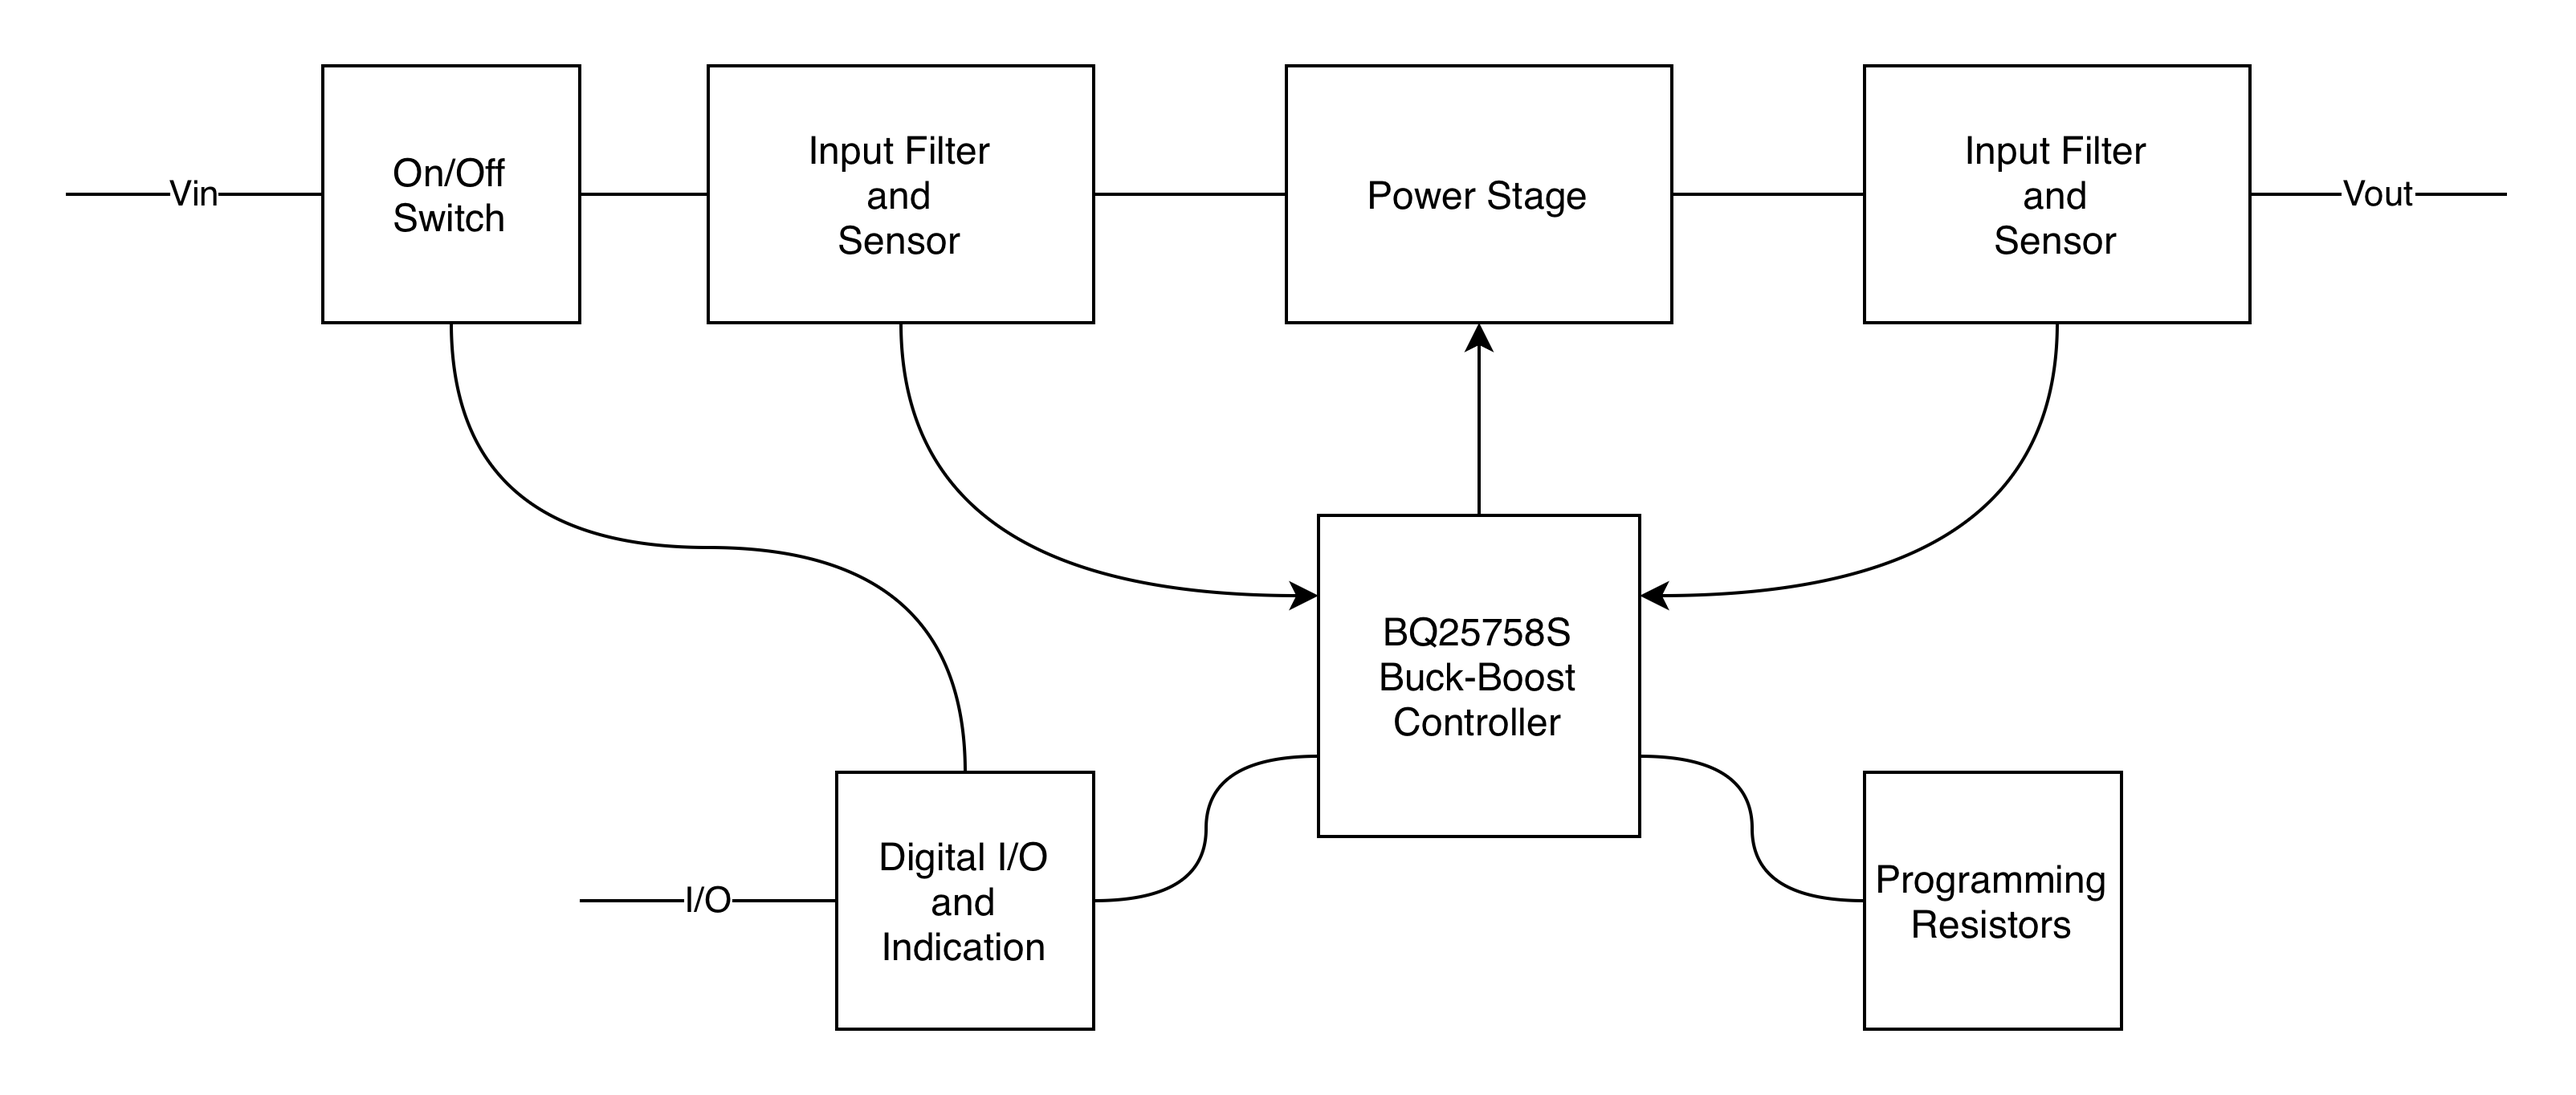
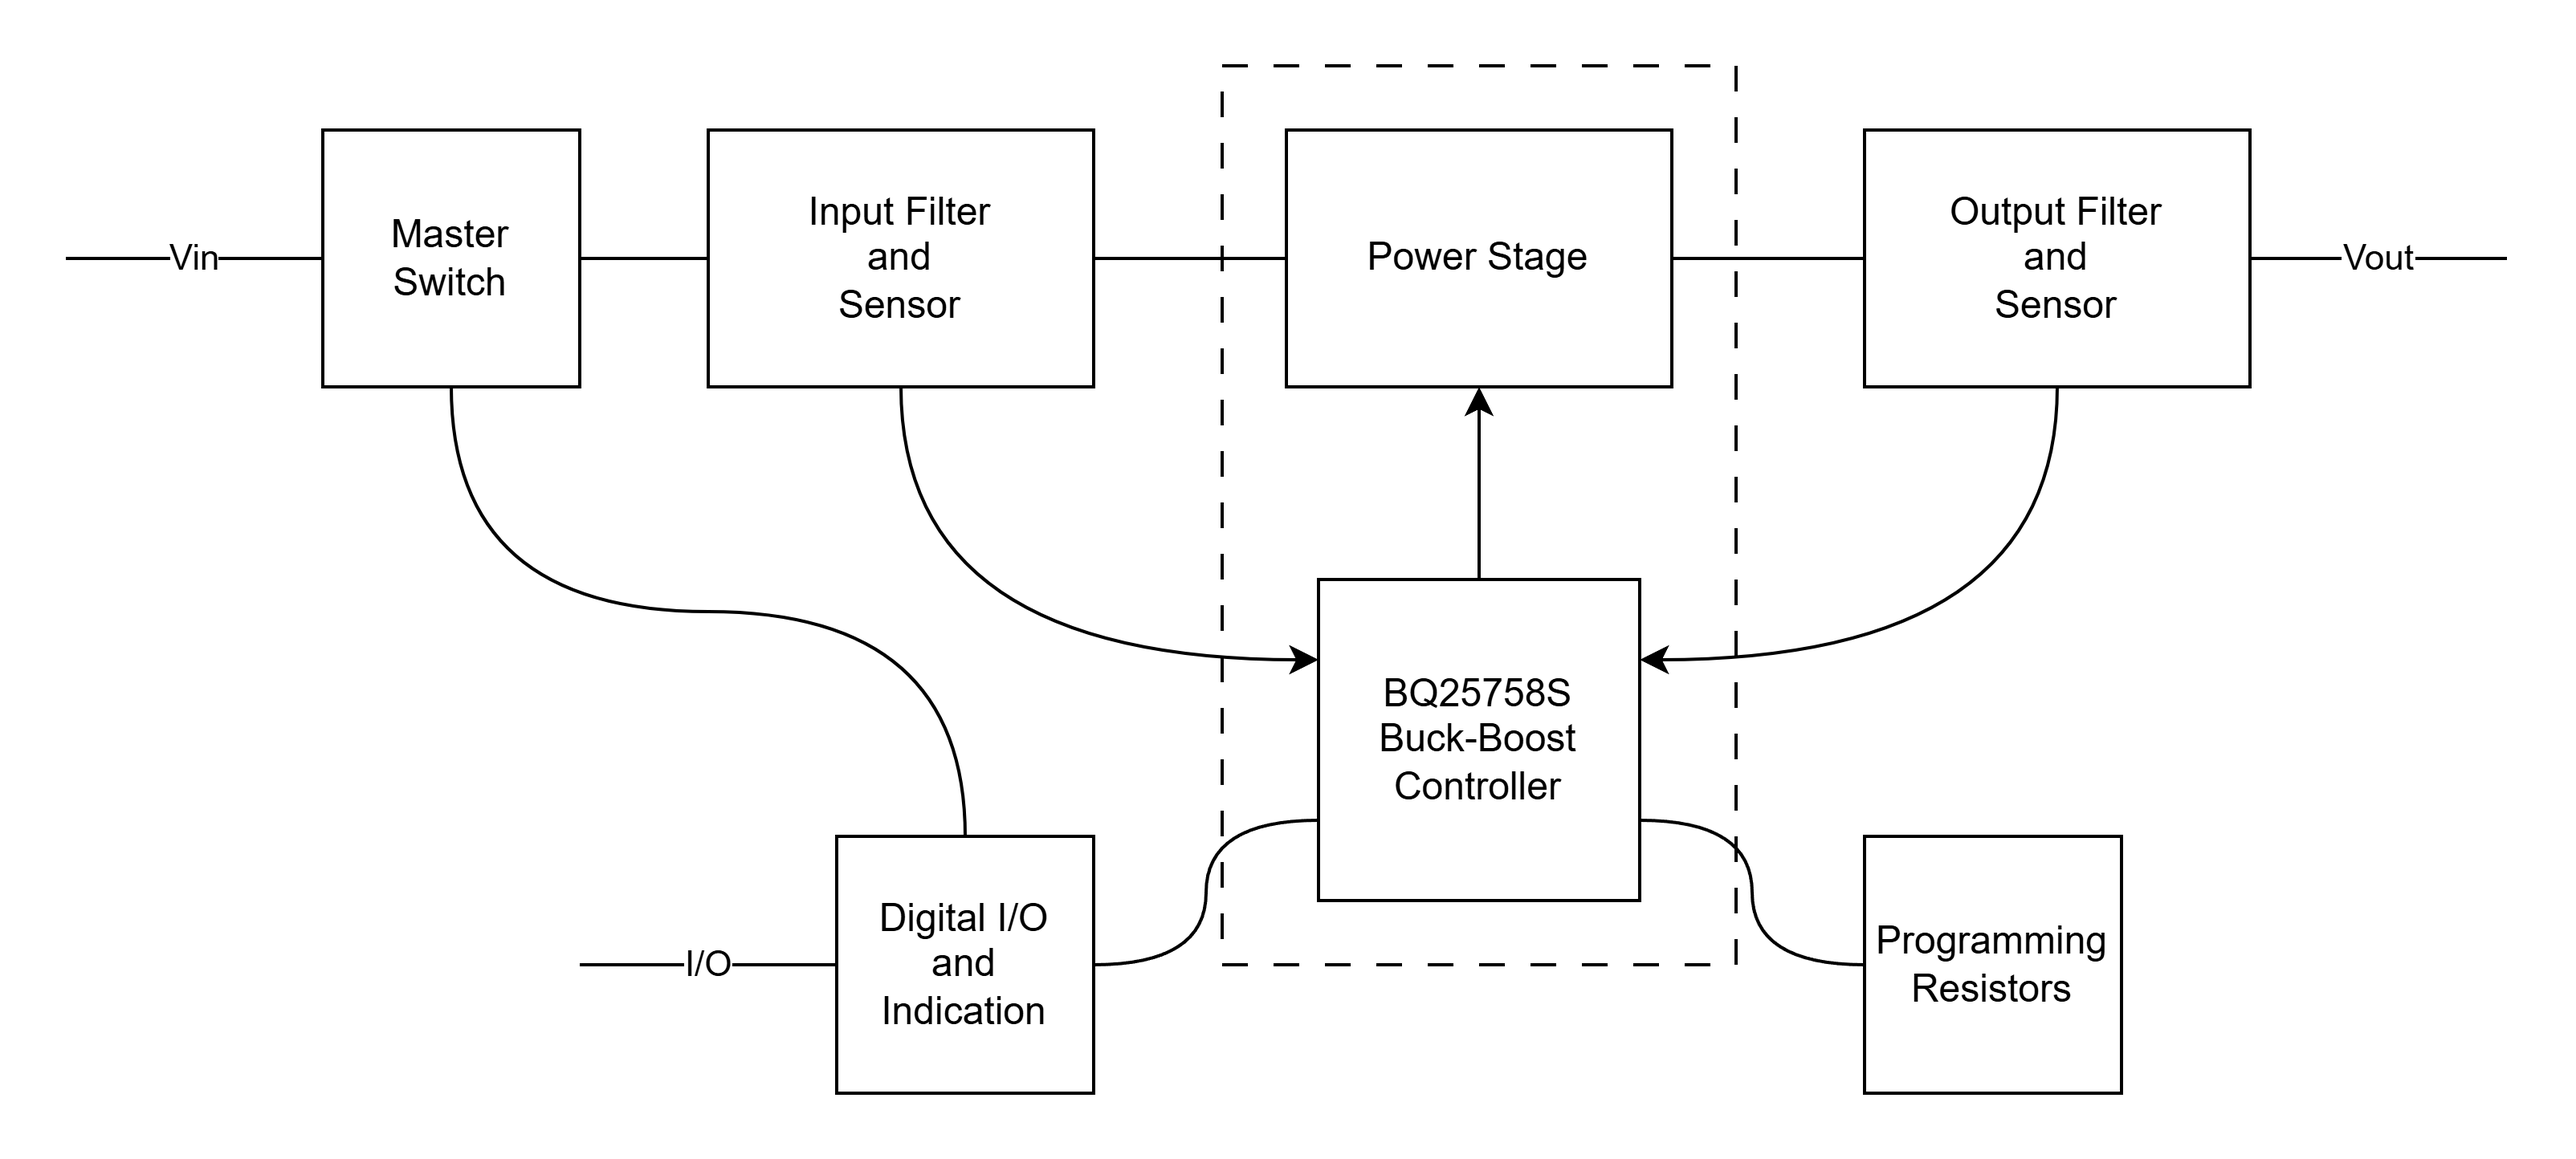
Add device's functional blocks description and notion on schematics progress

diff --git a/README.md b/README.md
@@ -35,4 +35,13 @@ Using calculator spreadsheets ([BQ25756_DESIGN-CALC-V01X4 (Low, 250).xlsx](BQ257
 - Input/Output Capacitors: TBD
 
 ## Schematics
-Schematis are stored in a dedicated repository - [condevtion/i2c-pps-hw](https://github.com/condevtion/i2c-pps-hw).
+Schematics are stored in a dedicated repository - [condevtion/i2c-pps-hw](https://github.com/condevtion/i2c-pps-hw).  The device is complex enough for the schematics to be split into several pages, one for each functional block.
+<img src="./I2C-PPS Sketch.Diagram.png" alt="I2C-PPS Diagram" width="720">
+
+The diagram above shows following blocks:
+- Controller and Power Stage - consists of the BQ25758S controller, the power MOSFETs, and the inductor
+- Input Filter and Sensor - a set of input capacitors and the input current sense resistor connected according to 4-point probes (Kelvin) method
+- Output Filter and Sensor - the same for output circuit
+- Master Switch - an input protection and an electronically controllable power switch
+- Digital I/O - digital interface between controller and I2C host, contains as well a status LED, a power good LED, and an independent voltage regulator for the digital circuit
+- Programming - a set of resistors to define controller's operating mode and HW limits for voltage and current

diff --git a/LOG.md b/LOG.md
@@ -1,5 +1,7 @@
 # Project Log
 
+## 2026-02-21
+Created a boilerplate for the whole devices schematics. Including a set of pages for different parts of the device, a set of main networks and busses, and connections between them. Decided on network nameing.
 ## 2026-02-19
 Added symbol and footprints for the BQ25756S controller to the schematic repository.
 ## 2026-02-18
